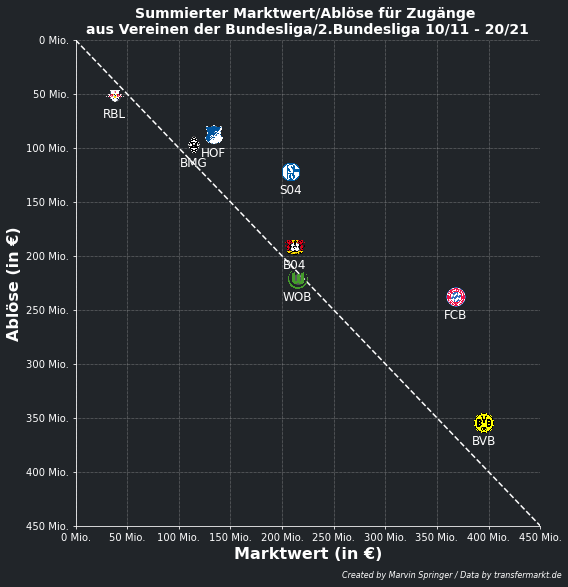
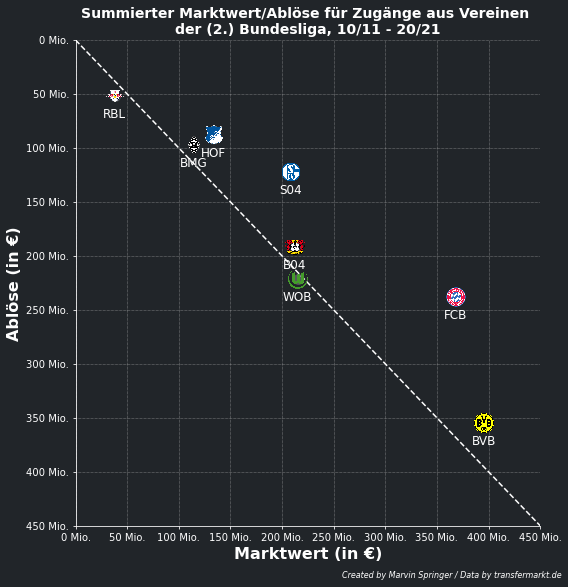
waffle und optimierungen

Changed region(s): [[0.1496, 0.0, 0.9278, 0.0613]]

diff --git a/bayern-kauft-buli-kaputt/Code/visu-waffle-statistics-zugaenge.py b/bayern-kauft-buli-kaputt/Code/visu-waffle-statistics-zugaenge.py
@@ -1,0 +1,143 @@
+# -*- coding: utf-8 -*-
+"""
+Created on Fri Apr  9 10:44:08 2021
+
+@author: Marvin
+"""
+import pandas as pd
+import matplotlib.pyplot as plt
+import matplotlib as mpl
+import numpy as np
+from matplotlib.offsetbox import OffsetImage, AnnotationBbox
+from pywaffle import Waffle
+from highlight_text import HighlightText, ax_text, fig_text
+abs_path = "C:/Users/Marvin/Desktop/Portfolio/soccer/bayern-kauft-buli-kaputt/buli-cl-teams-zugaenge.csv"
+img_base_path = "C:/Users/Marvin/Desktop/Portfolio/soccer/buli-logos/"
+
+df = pd.read_csv(abs_path)
+df = df.loc[df["Saison"] != 2021]
+de_liga = ["Bundesliga", "2. Bundesliga"]
+de_liga2 = ["Bundesliga", "2. Bundesliga", "3. Liga","A-Junioren Bundesliga Nord/Nordost","A-Junioren Bundesliga Süd/Südwest","A-Junioren Bundesliga West","Regionalliga West (bis 11/12)",
+            "Regionalliga West","Regionalliga Südwest","Regionalliga Nord (bis 11/12)","Regionalliga Nord","Regionalliga Bayern"]
+team_dict = {"fcb":"FCB",
+             "bvb":"BVB",
+             "wob":"WOB",
+             "b04":"B04",
+             "bmg":"BMG",
+             "hof":"HOF",
+             "s04":"S04",
+             "rbl":"RBL"}
+
+de_zugaenge = df.loc[(df["Abgebende-Liga"].isin(de_liga)) & (df["Transferart"]=="Transfer")]
+int_zugaenge = df.loc[(~df["Abgebende-Liga"].isin(de_liga2)) & (df["Transferart"]=="Transfer")]
+anzahl_zugaenge = de_zugaenge.groupby(["Aufnehmender-Verein","Abgebende-Liga"], as_index=False)["Unnamed: 0"].count()
+
+sum_marktwert_ablöse_zugaenge_de = de_zugaenge.groupby(["Aufnehmender-Verein"])["Marktwert", "Ablöse"].apply(sum)
+mean_marktwert_ablöse_zugaenge_de = de_zugaenge.groupby(["Aufnehmender-Verein"])["Marktwert", "Ablöse"].mean()
+season_grouped_mw_ablöse_zugaenge_de = de_zugaenge.groupby(["Aufnehmender-Verein","Saison"])["Ablöse"].apply(sum)
+
+sum_marktwert_ablöse_zugaenge_int = int_zugaenge.groupby(["Aufnehmender-Verein"])["Marktwert", "Ablöse"].apply(sum)
+mean_marktwert_ablöse_zugaenge_int = int_zugaenge.groupby(["Aufnehmender-Verein"])["Marktwert", "Ablöse"].mean()
+season_grouped_mw_ablöse_zugaenge_int = int_zugaenge.groupby(["Aufnehmender-Verein","Saison"])["Ablöse"].apply(sum)
+# print(mean_marktwert_ablöse_zugaenge) 
+
+asdf = sum_marktwert_ablöse_zugaenge_de["Marktwert"] - sum_marktwert_ablöse_zugaenge_de["Ablöse"]
+# asdf = de_zugaenge.sort_values("Ablöse")
+
+title_font = "Alegreya Sans"
+body_font = "Open Sans"
+textColor = "w"
+background = "#212529"
+filler = "lightgrey"
+primary = "red"
+
+mpl.rcParams['xtick.color'] = textColor
+mpl.rcParams['ytick.color'] = textColor
+mpl.rcParams['xtick.labelsize'] = 10
+mpl.rcParams['ytick.labelsize'] = 10
+
+anz = anzahl_zugaenge["Aufnehmender-Verein"].unique().tolist()
+anz_buli1 = anzahl_zugaenge.loc[anzahl_zugaenge["Abgebende-Liga"] == "Bundesliga", "Unnamed: 0"].tolist()
+anz_buli2 = anzahl_zugaenge.loc[anzahl_zugaenge["Abgebende-Liga"] == "2. Bundesliga", "Unnamed: 0"].tolist()
+team_list = [team_dict[i] for i in anz]
+
+def plot_waffle_anzahl_buli_zugaenge():
+
+    fig = plt.figure(FigureClass=Waffle,rows=5,icons='user',font_size= 12,figsize=(12,8),plots={
+        '331': {
+            'values': [anz_buli1[0], anz_buli2[0]],
+            'title': {"y":-0.2,'label': 'Gesamt: 32','loc': 'left',"fontfamily":body_font,"fontsize":12,"color":textColor},
+            },
+        331: {
+            "values": [1],
+            "title": {"y":1,'label': 'Bayer 04 Leverkusen','loc': 'left',"fontfamily":title_font,"fontweight":"bold","fontsize":12,"color":textColor}
+            },
+        '332': {
+            'values': [anz_buli1[6], anz_buli2[6]],
+            'title': {'label': 'FC Schalke 04','loc': 'left',"fontfamily":title_font,"fontweight":"bold","fontsize":12,"color":textColor},
+            },
+        '333': {
+            'values': [anz_buli1[1], anz_buli2[1]],
+            'title': {'label': 'Borussia Mönchengladbach','loc': 'left',"fontfamily":title_font,"fontweight":"bold","fontsize":12,"color":textColor}
+            
+            },
+        '334': {
+            'values': [anz_buli1[3], anz_buli2[3]],
+            'title': {'label': 'FC Bayern München','loc': 'left',"fontfamily":title_font,"fontweight":"bold","fontsize":12,"color":textColor},
+            },
+        '335': {
+            'values': [anz_buli1[4], anz_buli2[4]],
+            'title': {'label': 'TSG 1899 Hoffenheim','loc': 'left',"fontfamily":title_font,"fontweight":"bold","fontsize":12,"color":textColor},
+            },
+        '336': {
+            'values': [anz_buli1[5], anz_buli2[5]],
+            'title': {'label': 'RasenBallsport Leipzig', 'loc': 'left', "fontfamily":title_font,"fontweight":"bold", "fontsize":12,"color":textColor},
+            },
+        '337': {
+            'values': [anz_buli1[2], anz_buli2[2]],
+            'title': {'label': 'Borussia Dortmund','loc': 'left',"fontfamily":title_font,"fontweight":"bold","fontsize":12,"color":textColor},
+            },
+        '338': {
+            'values': [anz_buli1[7], anz_buli2[7]],
+            'title': {'label': 'VFL Wolfsburg','loc': 'left',"fontfamily":title_font,  "fontweight":"bold", "fontsize":12,"color":textColor},
+            "labels": ["Bundesliga", "2. Bundesliga"],
+            "legend": {'loc': 'right', 'bbox_to_anchor': (2.5,0.5),'framealpha': 0,'fontsize': 16,"labelcolor":textColor}
+            },
+        338: {
+            'values': [0],
+            'title': {"y":-0.2,'label': 'Gesamt: 32','loc': 'left',"fontfamily":title_font, "fontsize":12,"color":textColor},
+            },
+        337: {
+            'values': [0],
+            'title': {"y":-0.2,'label': 'Gesamt: 32','loc': 'left',"fontfamily":title_font, "fontsize":12,"color":textColor},
+            }, 
+        336: {
+            'values': [0],
+            'title': {"y":-0.2,'label': 'Gesamt: 22','loc': 'left',"fontfamily":title_font, "fontsize":12,"color":textColor},
+            }, 
+        335: {
+            'values': [0],
+            'title': {"y":-0.2,'label': 'Gesamt: 39','loc': 'left',"fontfamily":title_font, "fontsize":12,"color":textColor},
+            }, 
+        334: {
+            'values': [0],
+            'title': {"y":-0.2,'label': 'Gesamt: 23','loc': 'left',"fontfamily":title_font, "fontsize":12,"color":textColor},
+            }, 
+        333: {
+            'values': [0],
+            'title': {"y":-0.2,'label': 'Gesamt: 22','loc': 'left',"fontfamily":title_font, "fontsize":12,"color":textColor},
+            }, 
+        332: {
+            'values': [0],
+            'title': {"y":-0.2,'label': 'Gesamt: 40','loc': 'left',"fontfamily":title_font, "fontsize":12,"color":textColor},
+            }, 
+        },
+    )
+    fig.set_facecolor(background)
+    fig.patch.set_facecolor(background)
+    fig.suptitle(t="Anzahl Zugänge aus Vereinen der (2.)Bundesliga, 10/11-20/21",x=0.5, y=1.01,va="center", fontweight ="bold", fontsize=16, c=textColor)
+    # ax = fig.add_axes([0,0.95,0.75,0.15]) # badge
+    # ax.axis("off")
+
+
+plot_waffle_anzahl_buli_zugaenge()

diff --git a/bayern-kauft-buli-kaputt/Code/visu-statistics-zugaenge-cl-teams.py b/bayern-kauft-buli-kaputt/Code/visu-statistics-zugaenge-cl-teams.py
@@ -9,6 +9,8 @@ import matplotlib.pyplot as plt
 import matplotlib as mpl
 import numpy as np
 from matplotlib.offsetbox import OffsetImage, AnnotationBbox
+from pywaffle import Waffle
+print(mpl.__version__)
 abs_path = "C:/Users/Marvin/Desktop/Portfolio/soccer/bayern-kauft-buli-kaputt/buli-cl-teams-zugaenge.csv"
 img_base_path = "C:/Users/Marvin/Desktop/Portfolio/soccer/buli-logos/"
 
@@ -39,7 +41,8 @@ mean_marktwert_ablöse_zugaenge_int = int_zugaenge.groupby(["Aufnehmender-Verein
 season_grouped_mw_ablöse_zugaenge_int = int_zugaenge.groupby(["Aufnehmender-Verein","Saison"])["Ablöse"].apply(sum)
 # print(mean_marktwert_ablöse_zugaenge) 
 
-asdf = de_zugaenge.sort_values("Ablöse")
+asdf = sum_marktwert_ablöse_zugaenge_de["Marktwert"] - sum_marktwert_ablöse_zugaenge_de["Ablöse"]
+# asdf = de_zugaenge.sort_values("Ablöse")
 
 title_font = "Alegreya Sans"
 body_font = "Open Sans"
@@ -52,6 +55,38 @@ mpl.rcParams['xtick.color'] = textColor
 mpl.rcParams['ytick.color'] = textColor
 mpl.rcParams['xtick.labelsize'] = 10
 mpl.rcParams['ytick.labelsize'] = 10
+
+def plot_differenz_mw_abloese(df):
+    fig, ax = plt.subplots(figsize=(8,8))
+    fig.set_facecolor(background)
+    ax.patch.set_facecolor(background)
+    ax.grid(axis="y", ls="dotted",lw="0.5",color="lightgrey", zorder=1)
+    colormap = ["#b3de69","#b3de69","#b3de69","#b3de69","#b3de69","#fa8174","#b3de69","#fa8174"]
+    bars = ax.bar(x=asdf.index, height=asdf.tolist(), label='Bundesliga',color=colormap ,zorder=2)
+    # ax.bar_label(bars,label_type="center", fmt='%.2f')
+    ax.set_xlabel("Aufnehmender Verein", fontfamily=title_font, fontweight="bold", fontsize=12, color=textColor)
+    ax.set_ylabel("Markwert - Ablöse (in €)", fontfamily=title_font, fontweight="bold", fontsize=12, color=textColor)
+    xlabels = [team_dict[i] for i in anz]
+    ax.set_xticklabels(xlabels)
+    ylabels = ['{:,.0f}'.format(y) + ' Mio.' for y in ax.get_yticks()/1000000]
+    ax.set_yticklabels(ylabels)
+    for x, y, j in zip(asdf.index, asdf.tolist(), team_list):
+        path = img_base_path + j+".png"
+        if(y > 0):
+            ab = AnnotationBbox(OffsetImage(plt.imread(path),zoom=0.08), (x, y-7000000), frameon=False)
+        #(zoom=0.15), (0.4,0.5), frameon=False)
+        else:
+            ab = AnnotationBbox(OffsetImage(plt.imread(path),zoom=0.08), (x, -6000000), frameon=False)
+        ax.add_artist(ab)
+    ax.set_title("Differenz Marktwert/Ablöse für Zugänge aus Vereinen \nder (2.) Bundesliga, 10/11 - 20/21", fontsize=14, fontweight="bold", color = textColor)
+    fig.text(0.6, -0.01, "Created by Marvin Springer / Data by transfermarkt.de",
+        fontstyle="italic",fontsize=8, fontfamily=body_font, color=textColor)
+    plt.tight_layout()
+    plt.show()
+    
+plot_differenz_mw_abloese(asdf)    
+
+
 
 anz = anzahl_zugaenge["Aufnehmender-Verein"].unique().tolist()
 anz1 = anzahl_zugaenge.loc[anzahl_zugaenge["Abgebende-Liga"] == "Bundesliga", "Unnamed: 0"].tolist()
@@ -154,7 +189,7 @@ def scatter_plot_mw_abloese(x, y, labels):
         else:
             ax.spines[s].set_color(textColor)
         
-    ax.set_title("Summierter Marktwert/Ablöse für Zugänge \naus Vereinen der Bundesliga/2.Bundesliga 10/11 - 20/21", fontsize=14, fontweight="bold", color = textColor)
+    ax.set_title("Summierter Marktwert/Ablöse für Zugänge aus Vereinen \nder (2.) Bundesliga, 10/11 - 20/21", fontsize=14, fontweight="bold", color = textColor)
     fig.text(0.6, -0.01, "Created by Marvin Springer / Data by transfermarkt.de",
         fontstyle="italic",fontsize=8, fontfamily=body_font, color=textColor)
 
@@ -163,4 +198,8 @@ def scatter_plot_mw_abloese(x, y, labels):
 
 #marktwert-ablöse-vereine
 scatter_plot_mw_abloese(x_de, y_de, names_de)
-
+x = np.arange(10)
+y = np.arange(10)
+p = plt.plot(x,y,x,y+1,x,y+2, x,y+3, x,y+4, x,y+5, x,y+6,x,y+7) 
+for i in range(8):
+    print(p[i].get_color())

diff --git a/bayern-kauft-buli-kaputt/Code/fcb-buli-zugaenge-plot.py b/bayern-kauft-buli-kaputt/Code/fcb-buli-zugaenge-plot.py
@@ -41,11 +41,11 @@ ax.grid(ls="dotted",lw="0.5",color="lightgrey", zorder=1)
 ax.scatter(x, y, s=120, color=filler, edgecolors=background, alpha=0.3, lw=0.5, zorder=2)
 
 
-for i in [0,2,3,4,5,7,8,9,10,12,18,19]:
+for i in [0,2,3,5,7,8,10,12,18,19]:
     t = ax.text(x[i],y[i]-1000000,names[i],color=textColor,fontsize=12, ha="center", fontfamily=body_font)
 
 
-fig.text(0.13,1.02,"{}s Zugänge aus der Bundesliga, 10/11 - 20/21".format(team), fontsize=14, fontweight="bold", color = textColor)        
+fig.text(0.13,1.02,"{}s Zugänge aus der (2.) Bundesliga, 10/11 - 20/21".format(team), fontsize=14, fontweight="bold", color = textColor)        
 
 
 ax.set_xlabel("Marktwert (in €)", fontfamily=title_font, fontweight="bold", fontsize=16, color=textColor)
